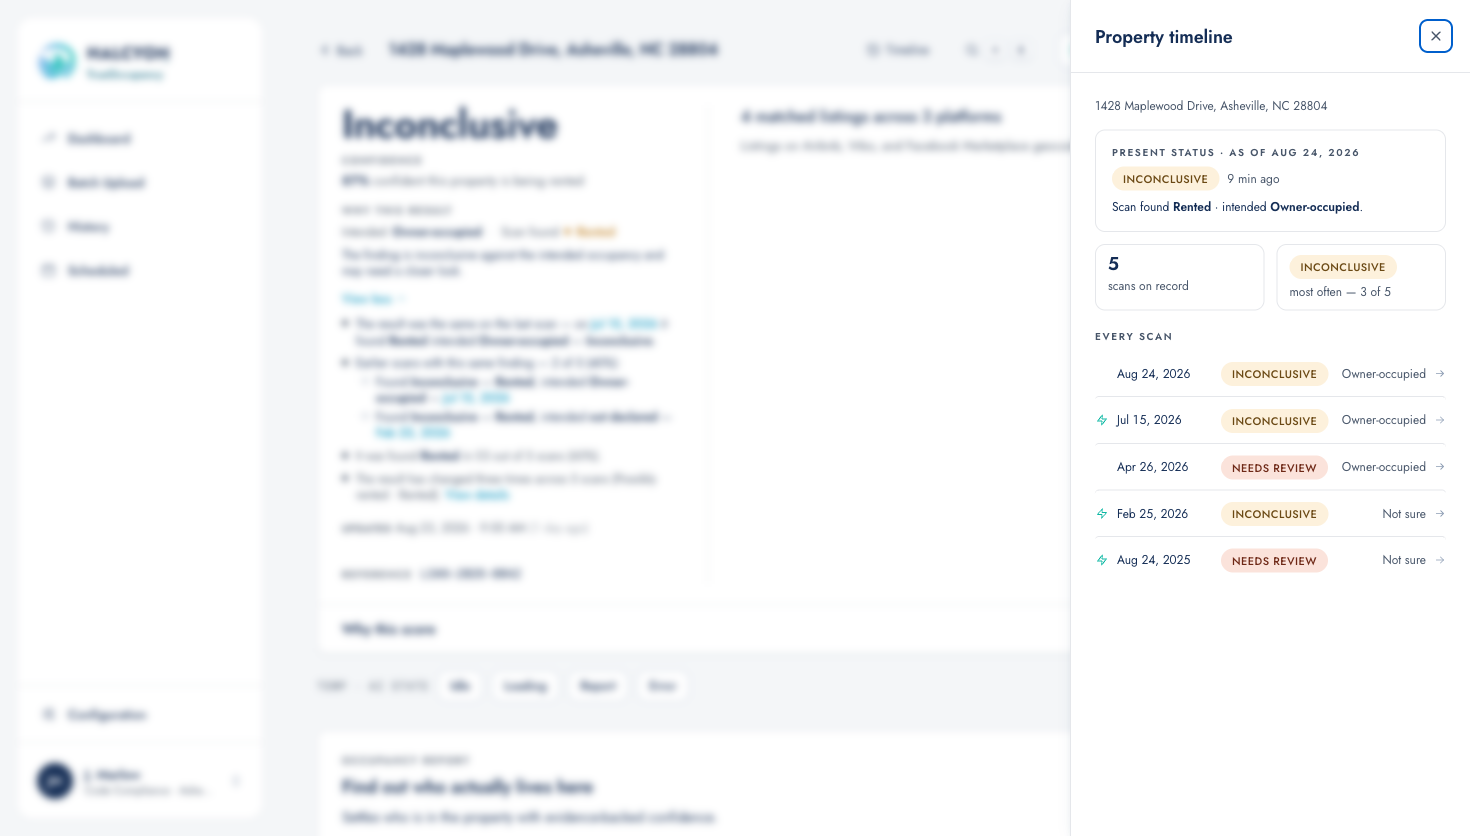
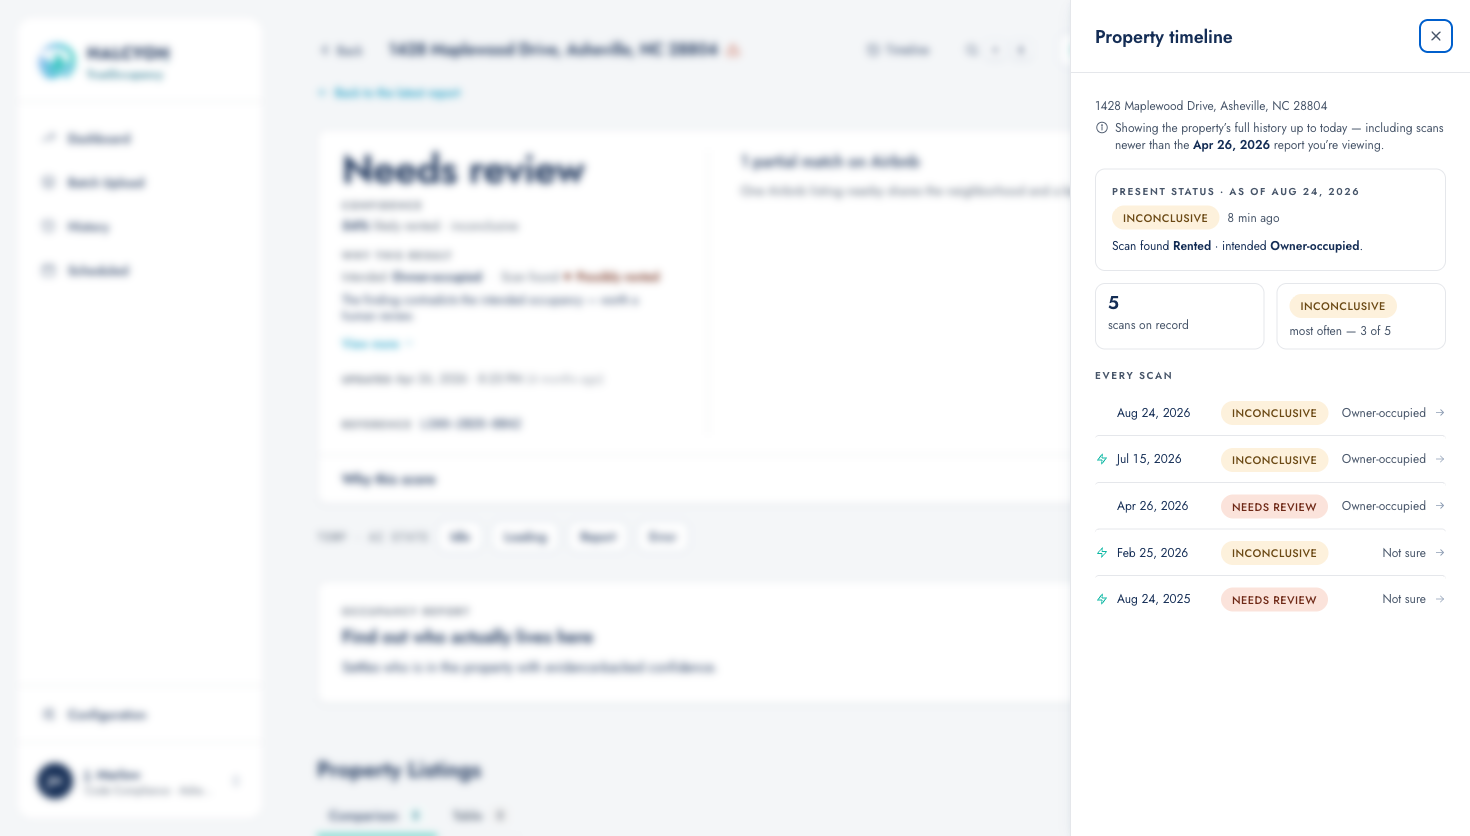
fix(result): report stats freeze at the report's own date; drawers say they don't
The reveal's denominators (similar-finding share, Rented tally, change
count) now derive from the record AS OF the open report — on the third
scan's page they read 'of 3', not 'of 5'. The open report itself is kept
by id; runs newer than its served date are excluded.

Both drawers keep showing the full record up to today, and now say so:
a scope note under the address ('Showing the property's full history up
to today'), which names the open report's date when newer scans exist
('— including scans newer than the Apr 26, 2026 report you're viewing').

Ticket screenshots refreshed for #64/#65; #62 gains an as-of-report shot.

diff --git a/src/components/result/PropertyTimelineDrawer.tsx b/src/components/result/PropertyTimelineDrawer.tsx
@@ -23,6 +23,42 @@ function timelineMatchOf(run: any) {
   return occMatchForRisk(run.intent, SCENARIOS[run.scenario as keyof typeof SCENARIOS]?.risk);
 }
 
+// Scope note under the address in BOTH drawers. A report page is frozen at
+// its own date, but these drawers deliberately show the FULL record up to
+// today — this line says so, so the mismatch reads as intent, not a bug.
+// When the open report has newer siblings (i.e. the user is standing on an
+// archived report), the note names that report's date to make it pointed.
+function DrawerScopeNote({ runs }: { runs: any[] }) {
+  if (!runs.length) return null;
+  const servedRaw =
+    typeof sessionStorage !== 'undefined' ? sessionStorage.getItem('resultServedAt') : null;
+  const served = servedRaw ? new Date(servedRaw).getTime() : NaN;
+  const currentId =
+    typeof sessionStorage !== 'undefined' ? sessionStorage.getItem('scanHistoryId') : null;
+  const viewingOlder =
+    !Number.isNaN(served) && runs.some((r) => r.id !== currentId && (r.scannedAt || 0) > served);
+  return (
+    <p className="font-sans text-caption text-ink-3 leading-snug m-0 mb-4 flex items-start gap-1.5">
+      <span className="shrink-0 mt-px [&>svg]:w-3.5 [&>svg]:h-3.5" aria-hidden>
+        <Icon name="info" size={14} />
+      </span>
+      <span>
+        {viewingOlder ? (
+          <>
+            Showing the property&rsquo;s full history up to today — including scans newer than the{' '}
+            <span className="font-semibold text-ink-2">
+              {formatUsDate(new Date(served).toISOString())}
+            </span>{' '}
+            report you&rsquo;re viewing.
+          </>
+        ) : (
+          <>Showing the property&rsquo;s full history up to today.</>
+        )}
+      </span>
+    </p>
+  );
+}
+
 // The automated-run marker, mirrored from RunHistory so a re-scan started by
 // the schedule reads the same in both places. Fixed-width slot keeps dates on
 // one baseline whether or not a row is marked.
@@ -96,7 +132,8 @@ function PropertyTimelineDrawer({
   return (
     <Drawer open={open} onClose={onClose} title="Property timeline" width={400}>
       {/* Address — quiet context line so the drawer is legible on its own. */}
-      <div className="font-sans text-caption text-ink-3 leading-snug m-0 mb-4">{address}</div>
+      <div className="font-sans text-caption text-ink-3 leading-snug m-0 mb-1.5">{address}</div>
+      <DrawerScopeNote runs={runs} />
 
       {runs.length === 0 ? (
         // First-use empty — no scans on record for this property yet.
@@ -245,7 +282,8 @@ function ScanDetailsDrawer({
 
   return (
     <Drawer open={open} onClose={onClose} title="Details" width={460}>
-      <div className="font-sans text-caption text-ink-3 leading-snug m-0 mb-4">{address}</div>
+      <div className="font-sans text-caption text-ink-3 leading-snug m-0 mb-1.5">{address}</div>
+      <DrawerScopeNote runs={runs} />
 
       {runs.length === 0 ? (
         // Defined empty state — reachable only via a stale session, but the

diff --git a/src/components/result/ConfidenceHero.tsx b/src/components/result/ConfidenceHero.tsx
@@ -488,11 +488,21 @@ function ConfidenceHero({ scenario, defaultOpen = true }: ConfidenceHeroProps) {
   const findingChanged =
     Boolean(mostRecentPriorAny) && Boolean(priorAnyVerdict) && priorAnyVerdict !== detectedVerdict;
 
-  // Record-wide facts (up to today), read chronologically — independent of
-  // which report is open: how many times the finding flipped, which distinct
-  // findings appeared, and how often Rented specifically came up.
+  // Record facts AS OF THIS REPORT, read chronologically: how many times the
+  // finding flipped, which distinct findings appeared, and how often Rented
+  // came up. A report states the world at ITS OWN date, so runs newer than
+  // the open report are excluded (the open report itself is kept by id) —
+  // on the third scan's page the denominators read "of 3", not "of 5".
+  // The drawers are the opposite by design: they always show the full record
+  // up to today, and say so.
   const addressTimeline = getHistoryForAddress(heroAddress)
-    .filter((h) => (h.scannedAt || 0) <= Date.now())
+    .filter((h) => {
+      const t = h.scannedAt || 0;
+      if (t > Date.now()) return false;
+      if (currentHistoryId && h.id === currentHistoryId) return true;
+      if (!Number.isNaN(servedCutoff) && t >= servedCutoff) return false;
+      return true;
+    })
     .sort((a, b) => (a.scannedAt || 0) - (b.scannedAt || 0));
   let findingChangeCount = 0;
   let prevTimelineVerdict: string | undefined;
